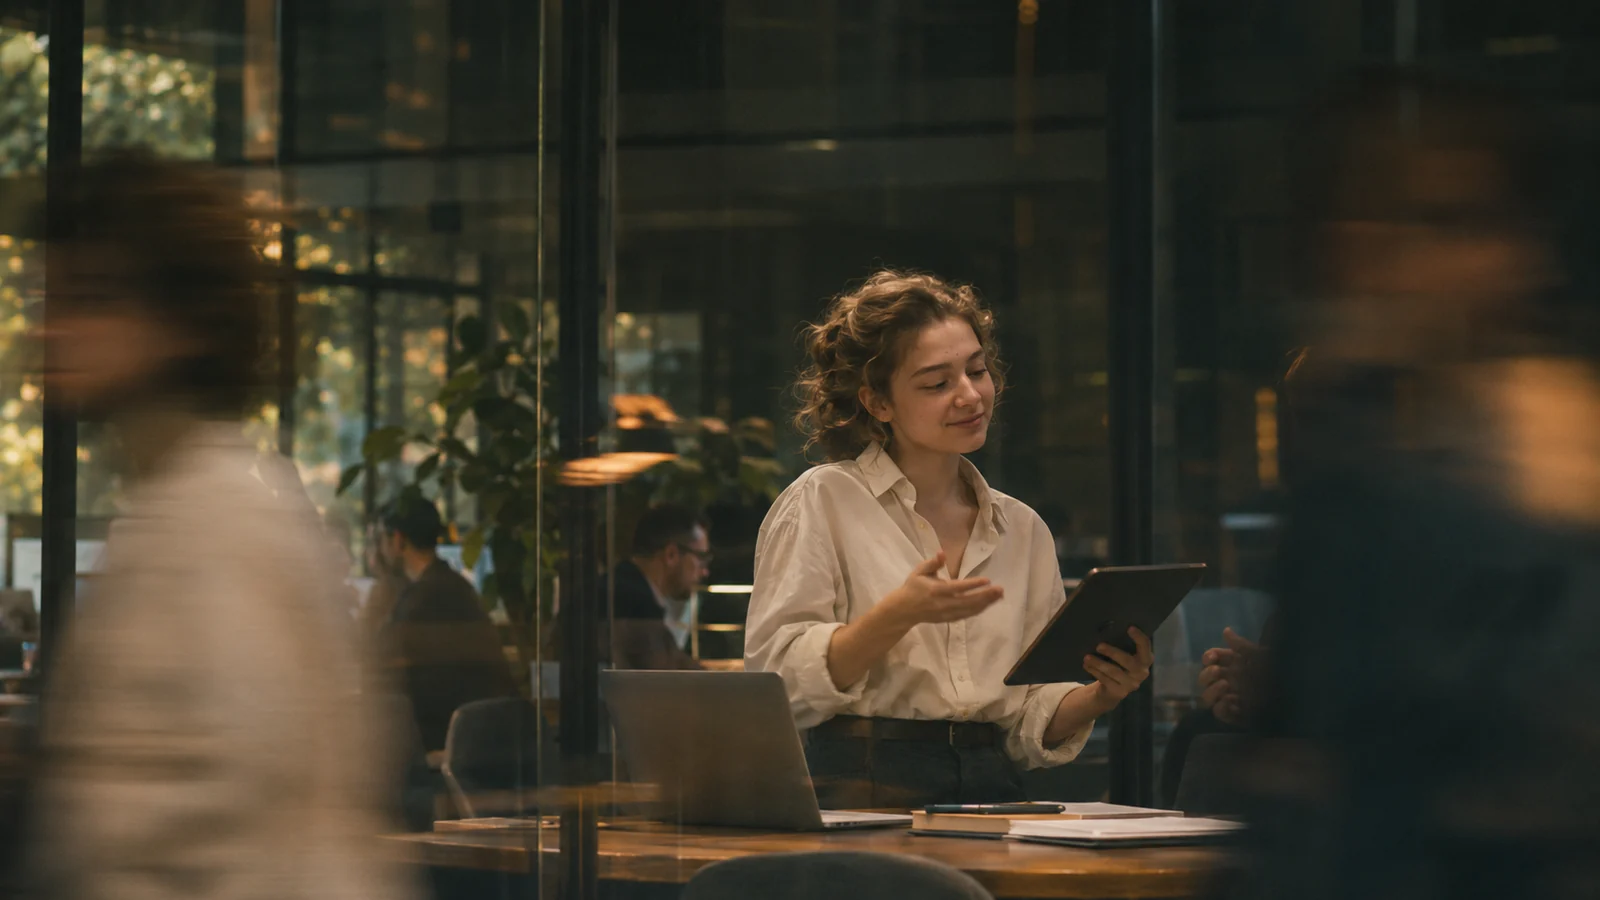
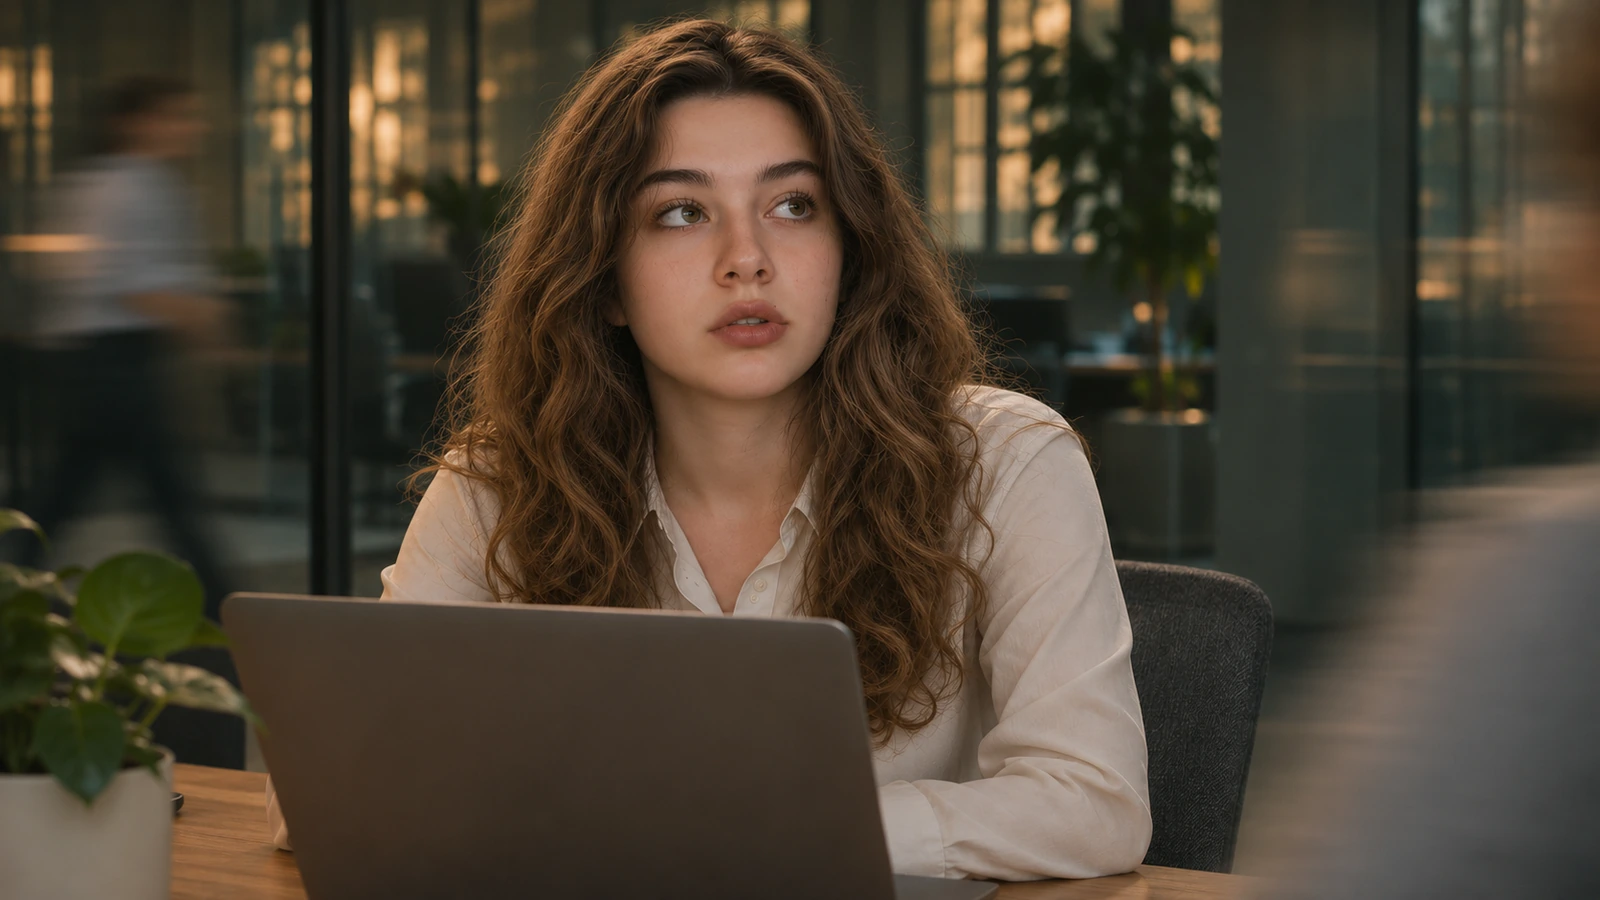
fix: refine employee-assistance photo from final references

diff --git a/src/components/Scenarios.tsx b/src/components/Scenarios.tsx
@@ -6,7 +6,7 @@ import styles from "./Scenarios.module.css";
 
 const scenarios = [
   { name: "Customer experience", src: "/media/century/photos/banking-advice.webp", width: 1600, height: 900, position: "84% center", title: "Every conversation.\nA useful next step.", href: "/agents/" },
-  { name: "Employee assistance", src: "/media/employee-assistance-woman.webp", width: 1600, height: 900, position: "50% center", title: "Company knowledge.\nReady when you need it.", href: "/agents/" },
+  { name: "Employee assistance", src: "/media/employee-assistance-woman.webp?v=51966346", width: 1600, height: 900, position: "50% center", portrait: true, title: "Company knowledge.\nReady when you need it.", href: "/agents/" },
   { name: "Business operations", src: "/media/workflows.webp", width: 1200, height: 675, position: "55% center", title: "Keep your work\nmoving forward.", href: "/systems/" },
   { name: "A connected platform", src: "/media/knowledge.webp", width: 1200, height: 675, position: "54% center", title: "One foundation.\nMore possibilities.", href: "/ai-os/" },
   { name: "Hands-on deployment", src: "/media/century/photos/team-workshop.webp", width: 1600, height: 900, position: "50% center", title: "From AI ambition\nto everyday progress.", href: "/deployment/" },
@@ -59,8 +59,8 @@ export default function Scenarios() {
       </div>
     </div>
     <ul className={styles.track} id="scenario-track" ref={track} aria-label="AI use cases">
-      {scenarios.map(({ name, src, width, height, position, title, href }) => <li className={styles.item} key={name}>
-        <a className={styles.card} href={href}>
+      {scenarios.map(({ name, src, width, height, position, portrait, title, href }) => <li className={styles.item} key={name}>
+        <a className={portrait ? `${styles.card} ${styles.portrait}` : styles.card} href={href}>
           <img src={src} style={{ objectPosition: position }} alt="" width={width} height={height} loading="lazy" decoding="async" />
           <h3>{title.split("\n").map((line, index) => <span key={line}>{index > 0 && <br />}{line}</span>)}</h3>
           <ArrowUpRight className={styles.arrow} size={23} strokeWidth={1.5} aria-hidden="true" />

diff --git a/src/components/Scenarios.module.css b/src/components/Scenarios.module.css
@@ -17,6 +17,8 @@
 .card h3 { padding: 28px 54px 24px 28px; font-size: clamp(25px, 2.2vw, 32px); font-weight: 300; line-height: 1.16; letter-spacing: -.04em; }
 .arrow { position: absolute; right: 23px; top: 29px; }
 .label { position: absolute; left: 28px; right: 24px; bottom: 27px; font-size: 13px; }
+.portrait::after { background: linear-gradient(180deg, #07111210, #07111220 35%, #071112d9); }
+.portrait h3 { position: absolute; inset-inline: 0; bottom: 64px; padding: 0 28px; }
 
 @media (max-width: 1100px) {
   .track { padding-inline: 28px; scroll-padding-inline: 28px; }
@@ -34,6 +36,7 @@
   .card h3 { font-size: clamp(23px, 6.5vw, 28px); padding: 25px 45px 20px 24px; }
   .arrow { top: 26px; right: 19px; width: 20px; }
   .label { left: 24px; bottom: 23px; font-size: 12px; }
+  .portrait h3 { padding: 0 24px; font-size: clamp(18px, 5.8vw, 24px); }
 }
 @media (prefers-reduced-motion: reduce) {
   .card img, .controls button { transition: none; }

diff --git a/docs/stock-video-2026-11-05.md b/docs/stock-video-2026-11-05.md
@@ -61,7 +61,7 @@ The homepage now uses 18 distinct photographs across its logical image slots, in
 
 Existing editorial photographs supply the replacement images. Employee assistance adds one generated environmental workplace scene guided by the user's appearance references and the site's existing photographic style: a close lookalike with small facial differences, candid activity, motion blur and muted warm/teal tones. The generated scene is illustrative; it does not identify a Century employee or customer. The source reference attachments and the two discarded portrait-style candidates are not included in the repository.
 
-The selected new WebP is 1600 × 900 and 64,132 bytes. The complete slot mapping, dimensions, SHA-256 hashes, generation method and final prompt are recorded in [the photography manifest](homepage-photography-2026-11-06.json). The current hero films, founder photographs, application captures, page layout and deploy-only workflow are preserved.
+The selected WebP is 1600 × 900 and 135,924 bytes. The current revision uses the third appearance reference for the face, with the earlier references informing the curls. A targeted edit repairs eye/hair boundaries and restores the site's subdued cinematic grading; the URL carries a content-hash version for returning browsers. The complete slot mapping, dimensions, SHA-256 hashes, generation method and final prompt are recorded in [the photography manifest](homepage-photography-2026-11-06.json). The current hero films, founder photographs, application captures, page layout and deploy-only workflow are preserved.
 
 ## Maintenance
 
